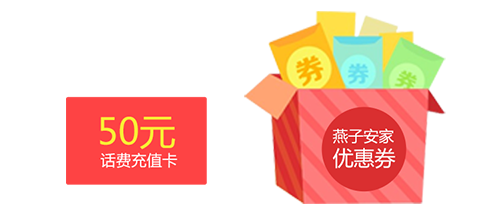
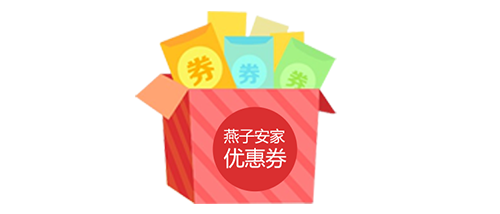
修改520活动页面成功页面

diff --git a/webapp/Operating/activity.html b/webapp/Operating/activity.html
@@ -98,8 +98,9 @@
 		<div class="page_div">
 			<img src="common/img/page5_img1.png" class="img1"/>
 			<img src="common/img/page5_img2.png" class="img2"/>
-			<div><a id='common_a_btn_regist' class="common_a_btn common_a_btn1">分享给朋友</a></div>
+			<div><a id='common_a_btn_regist' class="common_a_btn common_a_btn1">分享献爱心</a></div>
 			<div><a class="common_a_btn common_a_btn2 common_a_btn_tell">一键呼叫客服</a></div>
+			<p class="tip">您的优惠券已经录入系统，在燕子安家客户端注册后即可享受优惠。<a href="../login/regist.html">立即注册</a></p>
 		</div>
 		<section class="u-arrow-bottom"><div class="pre-wrap"></div></section>
 	</div>

diff --git a/webapp/Operating/common/activity.css b/webapp/Operating/common/activity.css
@@ -84,8 +84,9 @@ select{appearance:none;-webkit-appearance: none;}
 .page6{}
 .page6 .page_div{height:100%;}
 .page6 .page_div img.img1{max-width:100%;margin:4% 0 6%;}
-.page6 .page_div img.img2{max-width:100%;margin:15% 0 0;}
-
+.page6 .page_div img.img2{max-width:100%;margin:0;}
+.page6 p.tip{width:80%;margin:0 auto;font-size:14px;}
+.page6 p.tip a{color:#539d34;text-decoration:underline;}
 .common_a_btn{margin:20px auto;color:#fff;display:block;width:72%;height:35px;line-height:35px;text-align:center;border-radius:30px;}
 .common_a_btn1{background-color:#f9ed35;margin-top:15%;color:#000000;}
 .common_a_btn1:active{background-color:#cec42e;}
